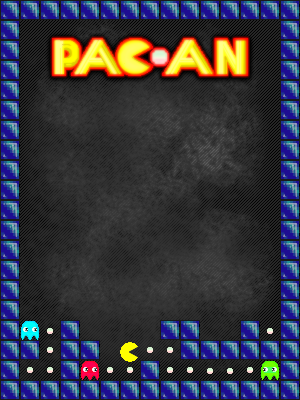
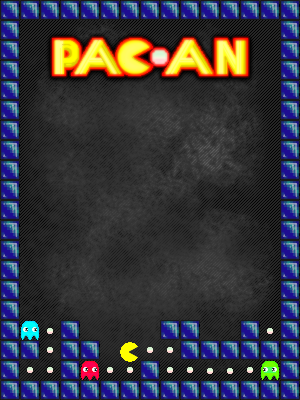
random pacan

diff --git a/src/controller/GameController.java b/src/controller/GameController.java
@@ -5,7 +5,6 @@ import model.GameLogic;
 import model.GameLogic.GameLogicListener;
 
 import java.awt.event.KeyListener;
-import java.awt.event.WindowEvent;
 import java.io.IOException;
 import java.util.concurrent.BrokenBarrierException;
 import java.util.concurrent.CyclicBarrier;
@@ -20,34 +19,56 @@ import visual.PlayerScore;
 import visual.ScoreView;
 import visual.CellTypeVisu;
 
+
+
+/**
+ * @class GameController
+ * @brief Implementuje Kontroler do modelu MVC
+ *
+ *       Klasa implementuje funkcjonalność kontrolera w modelu MVC.
+ *       Aplikacja jest na tyle prosta, że logikę działania można zawrzeć w jednej klasie
+ */
+
+
 public class GameController implements Runnable,
         MenuView.MenuListener,
         ScoreView.ScoreListener,
         DifficultyView.DifficultyListener,
         GameView.GameListener,
         GameLogicListener {
-
+/**Główny wątek gry*/
     private Thread gameLoopThread;
+    /** wstrzymanie */
     private volatile boolean paused = false;
+    /** obiekt synchronizujący wątki na potrzeby wstrzymania */
     private final Object pauseLock = new Object();
+    /** zmienna running do nieskończonej pętly w wątkach */
     private volatile boolean running;
+    /** obsługa przycisków */
     private KeyHandler keyhandler;
+    /** obsłyuga logiki gry */
     public GameLogic gamelogic;
-
+/** bariera do synchronizacji wątków */
     private final CyclicBarrier frameBarrier = new CyclicBarrier(2);
+    /** wątek obsługujący "AI" przeciwników */
     private Thread npcThread;
-
+/** menu główne */
     private MenuView menu;
+    /** lista wyników */
     private ScoreView score;
+    /** menu wyboru wielkości labiryntu */
     private DifficultyView difficulty;
+    /** okno planszy gry */
     private GameView game;
+    /** lista wyników */
     private SerializableList<PlayerScore> highScoreList;
-
+/** dolcelowa liczba klatek na sekunde "fizyki" */
     private final int TARGET_FPS = 30;
+    /** optymalny czas każdej klatki */
     private final long OPTIMAL_TIME;
             
     
-
+/** konstruktor */
     public GameController(KeyHandler keyhandler,
             MenuView menu,
             ScoreView score,
@@ -58,14 +79,14 @@ public class GameController implements Runnable,
         this.score = score;
         this.difficulty = difficulty;
         this.game = game;
-
+/** obliczenia optymalnego czasu klatki w nanosekundach */
         this.OPTIMAL_TIME = 1_000_000_000L / this.TARGET_FPS;
 
         this.menu.setListener(this);
         this.score.setListener(this);
         this.difficulty.setListener(this);
        
-
+/** ładowanie listy wyników zapisanej w pliku */
         try {
             highScoreList = SerializableList.loadFromFile("highscores.list");
         } catch (ClassNotFoundException e) {
@@ -75,24 +96,25 @@ public class GameController implements Runnable,
             // TODO Auto-generated catch block
             e.printStackTrace();
         }
-
+/** ładowanie listy wyników do listy roboczej */
         for (PlayerScore playerScore : highScoreList) {
             score.addHighScore(playerScore.getName(),playerScore.getScore());
         }
 
         this.game.setListener(this);
         this.game.setKeyListener(keyhandler);
-
+        /** pokazanie głównego menu gry */
         this.menu.setVisible(true);
     }
 
+    /**Watek logiki gry */
     @Override
     public void run() {
         running = true;
         long lastTime = System.nanoTime();
 
         while (running) {
-
+            /** synchronizacja pauzy wątków */
             synchronized (pauseLock) {
                 while (paused) {
                     try {
@@ -116,9 +138,10 @@ public class GameController implements Runnable,
                     5);
 
             try {
-                frameBarrier.await(); //obliczenia ruchu npc mogą się wykonać dopiero po zaktualizowaniu opołożenia gracza
+                /** bariera - ruch gracza został wykonany. oczekujemy na ruch AI */
+                frameBarrier.await(); 
 
-                
+                /** ruch AI wykonany, można wznowić wątek */
                 frameBarrier.await();
             } catch (InterruptedException | BrokenBarrierException ex) {
                 Thread.currentThread().interrupt();
@@ -128,7 +151,7 @@ public class GameController implements Runnable,
             game.setScore(gamelogic.getPlayerScore(0));
             game.setLives(gamelogic.getPlayer(0).getLives());
 
-
+            /** obliczenia na jak długo trzeba zatrzymać wątek, aby utrzymać 30fps */
             long frameTime = System.nanoTime() - now;
             long sleepTimeMs = (OPTIMAL_TIME - frameTime) / 1_000_000L;
 
@@ -143,12 +166,13 @@ public class GameController implements Runnable,
         }
     }
 
+/** wątek NPC */
     private Runnable npcLoop() {
         return () -> {
             try {
                 while (running) {
 
-                    //położenie gracza zaktualizowane można obliczać a-star
+                    
                     frameBarrier.await(); 
             
                     gamelogic.calcDistanceField();            
@@ -165,6 +189,10 @@ public class GameController implements Runnable,
         };
     }
 
+    /** konwerter typu pola z logicznego na graficzny
+    * @param board plansza gry w formie logiki
+    * @return odpowiednik planszy w formie wizualnej
+    */
     private CellTypeVisu[][] stateToVisu(CellType[][] board) {
         CellTypeVisu[][] temp = new CellTypeVisu[board.length][board[0].length];
         for (int i = 0; i < temp.length; i++)
@@ -192,11 +220,9 @@ public class GameController implements Runnable,
 
     }
 
-    public void stop_old() {
-        running = false;
-        resume();
-    }
-
+/**
+ * metoda zatrzymująca wątki gry
+ */
     public void stop() {
         running = false;
         resume(); 
@@ -210,10 +236,16 @@ public class GameController implements Runnable,
         }
     }
 
+    /**
+     *  pauzowanie wątków
+     */
     public void pause() {
         paused = true;
     }
 
+    /**
+     *  wznawianie wątków
+     */
     public void resume() {
         synchronized (pauseLock) {
             paused = false;
@@ -221,27 +253,41 @@ public class GameController implements Runnable,
         }
     }
 
+    /**
+     * metoda zwracająca listener przycisków
+     * @return
+     */
     public KeyListener getKeyListener() {
         return keyhandler.getKeyListener();
     }
 
+    /**
+     *  metoda wywoływana przez listenera przy kliknięciu przycisku nowa gra
+     */
     @Override
     public void onNewGame() {
         menu.setVisible(false);
         difficulty.setVisible(true);
     }
 
+    /**
+     *  metoda wywoływana przez listenera przy kliknięciu przycisku pokazania wyników
+     */
     @Override
     public void onShowScores() {
         score.setVisible(true);
         menu.setVisible(false);
     }
-
+    /**
+     *  metoda wywoływana przez listenera przy kliknięciu przycisku exit
+     */
     @Override
     public void onExit() {
         System.exit(0);
     }
-
+    /**
+     *  metoda wywoływana przez listenera przycisku zamknięcia okna wyników 
+     */
     @Override
     public void onCloseScoreWindow() {
         score.setVisible(false);

diff --git a/src/controller/ExitKeyHandler.java b/src/controller/ExitKeyHandler.java
@@ -4,27 +4,49 @@ import java.awt.KeyboardFocusManager;
 import java.awt.KeyEventDispatcher;
 import java.awt.event.KeyEvent;
 
+/**
+ * @class ExitKeyHandler
+ * @brief Implementacja skrótu ctrl+shift+q do restartu
+ *
+ *        Klasa implementuje skrót klawiszowy do restartu aplikacji.
+ *        Wywołuje obiekt Runnable w momencie gdy zarejestruje even klawiatury
+ */
+
 public class ExitKeyHandler {
+    /**
+     * Obiekt runnable wywoływany przy naciśnięciu
+     */
     private static Runnable restartCallback;
-    
+
+    /**
+     * Metoda obsługuje zdarzenia klawiatury na poziomie globalnym
+     * Metoda sprawdza czy nasąpiło zdarzenie KEY_PRESSED, został naciśnięty
+     * przycisk Q z modyfikatorami CTRL i Shift
+     * 
+     * Jeśli wszystkie warunki są spełnione i callback nie jest null,
+     * wykonywany jest callback i metoda zwraca true
+     */
+
     public static void setupExitKeys(Runnable onRestart) {
+
         restartCallback = onRestart;
 
         KeyboardFocusManager.getCurrentKeyboardFocusManager().addKeyEventDispatcher(new KeyEventDispatcher() {
             @Override
             public boolean dispatchKeyEvent(KeyEvent e) {
-            
+
                 if (e.getID() == KeyEvent.KEY_PRESSED) {
-                    
-                    if (e.getKeyCode() == KeyEvent.VK_Q && (e.getModifiersEx() & KeyEvent.CTRL_DOWN_MASK) != 0 && (e.getModifiersEx() & KeyEvent.SHIFT_DOWN_MASK) != 0) {
-                     if (restartCallback != null) {
+
+                    if (e.getKeyCode() == KeyEvent.VK_Q && (e.getModifiersEx() & KeyEvent.CTRL_DOWN_MASK) != 0
+                            && (e.getModifiersEx() & KeyEvent.SHIFT_DOWN_MASK) != 0) {
+                        if (restartCallback != null) {
                             restartCallback.run();
                         }
-                    return true;
+                        return true;
+                    }
                 }
-                }
-                
-                return false; 
+
+                return false;
             }
         });
     }

diff --git a/src/visual/MenuView.java b/src/visual/MenuView.java
@@ -43,7 +43,13 @@ public class MenuView extends BaseWindow{
         
         setDefaultCloseOperation(JFrame.EXIT_ON_CLOSE);
         setSize(300, 400);
-        JPanel menuPanel =  new BackgroundJpanel(new GridLayout(3, 1, 10, 20),"images/menu_pacman.png");
+        String img; 
+        if(Math.random()<=0.15)
+            img = "images/menu_pacan.png";
+        else
+            img = "images/menu_pacman.png";
+
+        JPanel menuPanel =  new BackgroundJpanel(new GridLayout(3, 1, 10, 20),img);
         menuPanel.setBorder(BorderFactory.createEmptyBorder(getHeight()/4, (int)(getWidth()/4.5), getHeight()/4, (int)(getWidth()/4.5)));
         add(menuPanel);
 
